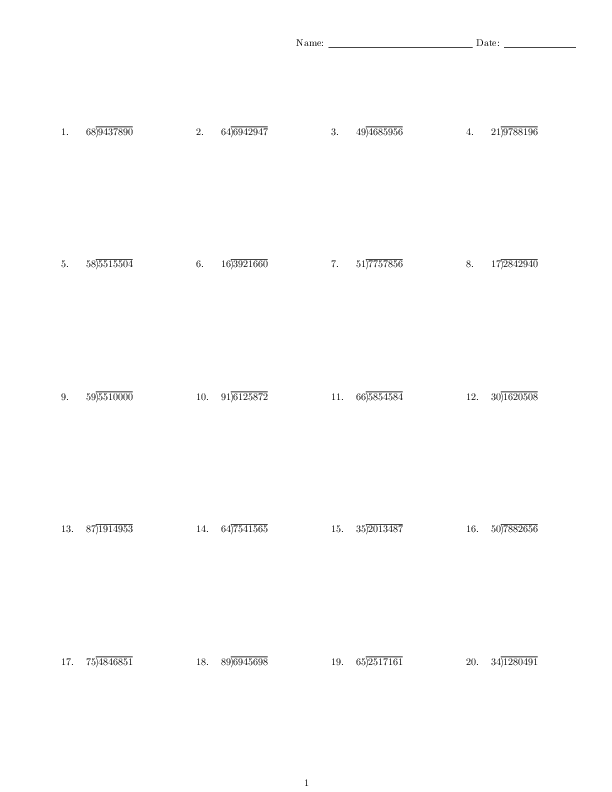
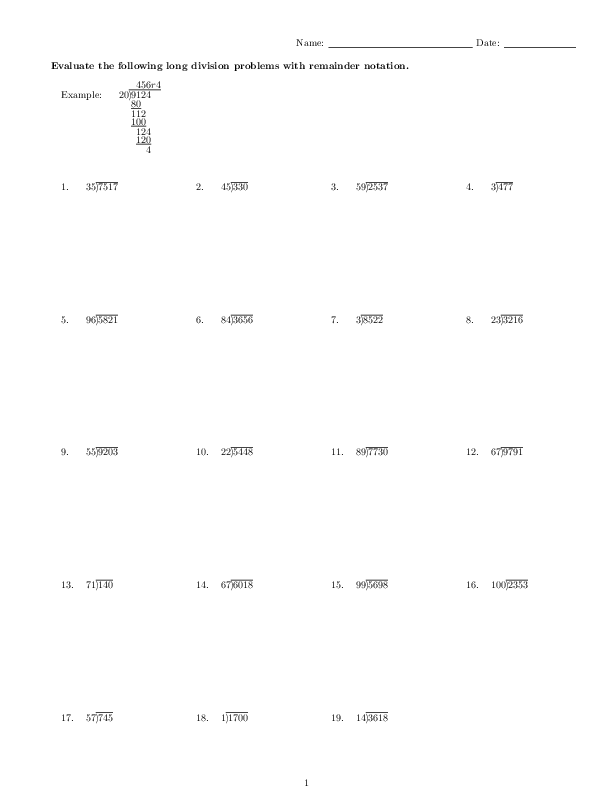
Including directions and an example

diff --git a/src/document.tex b/src/document.tex
@@ -4,6 +4,7 @@
 
 % Long Division
 \usepackage{tasks}
+\NewTasks[style=enumerate,label-offset=7em,after-item-skip=10em]{exampleitemize}[\item](1)
 \NewTasks[style=enumerate,label-offset=4em,after-item-skip=10em]{divitemize}[\item](4)
 \NewTasks[style=enumerate,label-offset=4em,]{divsolitemize}[\item](4)
 \usepackage{scalerel}
